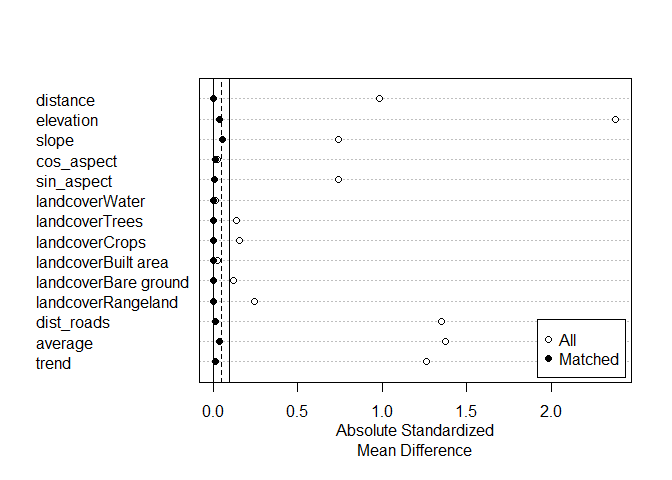
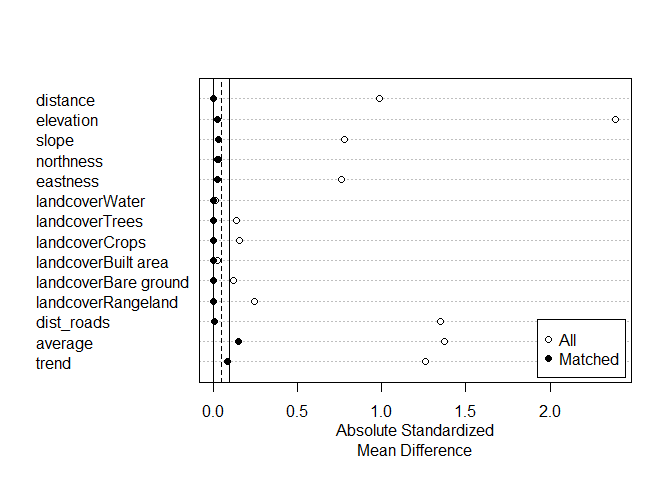
Update BACI_Baviaanskloof.md

diff --git a/tutorials/BACI_Baviaanskloof.md b/tutorials/BACI_Baviaanskloof.md
@@ -4,7 +4,8 @@ Jasper Van doninck, Trinidad del Río-Mena, Wieteke Willemen, Wietske
 Bijker
 
 - [1 The Baviaanskloof dataset](#1-the-baviaanskloof-dataset)
-- [2 Spatial reference and the candidate control pixels](#2-spatial-reference-and-the-candidate-control-pixels)
+- [2 Spatial reference and the candidate control
+  pixels](#2-spatial-reference-and-the-candidate-control-pixels)
 - [3 Evaluation metric](#3-evaluation-metric)
 - [4 Control-Impact Matching](#4-control-impact-matching)
 - [5 Before-After-Control-Impact
@@ -129,7 +130,7 @@ vi_before <- eo_VI_yearly.stac(refRas, "NDVI",
                                years=seq(year-10, year-1, 1),
                                months = 3:5,
                                maxCloud=60)
-vi_before <- gdalcube_as_terra(vi_before)
+vi_before <- as.SpatRaster(vi_before)
 ```
 
 ``` r
@@ -138,7 +139,7 @@ vi_after <- eo_VI_yearly.stac(refRas, "NDVI",
                               years=seq(year+1, year+10, 1),
                               months = 3:5,
                               maxCloud=60)
-vi_after <- gdalcube_as_terra(vi_after)
+vi_after <- as.SpatRaster(vi_after)
 ```
 
 In the above code, we specified that we want to make a pixel-based NDVI
@@ -157,9 +158,8 @@ data from cloud catalogs as data cubes. We hope to identify and fix
 these issues in an update of the `EnvImpactEval` package. For now we
 choose to transform the data cubes to SpatRaster object and plot the
 data at this step in the workflow, which will access the actual image
-data indicate whether errors / incompleteness are encountered. If so,
-these two steps can be re-run. Alternatively, these lines can be
-skipped, but potential warning or error messages could then occur later.
+data and indicate whether errors / incompleteness are encountered. If
+so, these previous two steps can be re-run.
 
 ``` r
 plot(vi_before, main=paste0("NDVI - ",seq(year-10, year-1, 1)))
@@ -210,7 +210,7 @@ aspect should be transformed to “northness” and “eastness” by applying
 the cosine and sine function on it (default) or not.
 
 ``` r
-dem <- nasadem(refRas)
+dem <- dem(refRas)
 ```
 
 We also included land cover as a matching covariate. This will ensure
@@ -243,6 +243,8 @@ analysis.
 roadsDist <- osm_distance_roads(refRas, values="track+")
 ```
 
+    ## |---------|---------|---------|---------|=========================================                                          
+
 In addition to parameters described above, we also included as matching
 covariates the average and trend of the selected vegetation index in the
 10-year period before the restoration intervention. This way, control
@@ -267,13 +269,12 @@ after which the matching can be accepted or rejected.
 matches <- matchCI(matchingCands, matchingLayers, eval=TRUE, ratio=10, replace=TRUE)
 ```
 
-    ## A matchit object
+    ## A `matchit` object
     ##  - method: 10:1 nearest neighbor matching with replacement
-    ##  - distance: Propensity score
-    ##              - estimated with logistic regression
-    ##  - number of obs.: 11782 (original), 1709 (matched)
+    ##  - distance: Propensity score             - estimated with logistic regression
+    ##  - number of obs.: 11782 (original), 1711 (matched)
     ##  - target estimand: ATT
-    ##  - covariates: elevation, slope, cos_aspect, sin_aspect, landcover, dist_roads, average, trend
+    ##  - covariates: elevation, slope, northness, eastness, landcover, dist_roads, average, trend
     ## Press <Enter> to continue.
     ## 
     ## Call:
@@ -281,11 +282,11 @@ matches <- matchCI(matchingCands, matchingLayers, eval=TRUE, ratio=10, replace=T
     ## 
     ## Summary of Balance for All Data:
     ##                      Means Treated Means Control Std. Mean Diff. Var. Ratio
-    ## distance                    0.0916        0.0184          0.9858     3.7093
-    ## elevation                 546.9688      701.6467         -2.3803     0.1123
-    ## slope                       9.5154       12.4234         -0.7395     0.2211
-    ## cos_aspect                  0.0530        0.0727         -0.0289     0.9508
-    ## sin_aspect                  0.5133        0.1259          0.7407     0.5564
+    ## distance                    0.0930        0.0184          0.9867     3.7898
+    ## elevation                 546.9395      701.6508         -2.3898     0.1115
+    ## slope                       0.1637        0.2153         -0.7789     0.2091
+    ## northness                   0.0563        0.0736         -0.0256     0.9388
+    ## eastness                    0.5233        0.1264          0.7629     0.5484
     ## landcoverWater              0.0000        0.0002         -0.0133          .
     ## landcoverTrees              0.0000        0.0179         -0.1365          .
     ## landcoverCrops              0.0000        0.0232         -0.1557          .
@@ -294,13 +295,13 @@ matches <- matchCI(matchingCands, matchingLayers, eval=TRUE, ratio=10, replace=T
     ## landcoverRangeland          1.0000        0.9443          0.2453          .
     ## dist_roads                526.1387      999.0099         -1.3502     0.1085
     ## average                     0.1240        0.1388         -1.3754     0.0985
-    ## trend                       0.0017        0.0006          1.2628     0.1495
+    ## trend                       0.0000        0.0000          1.2626     0.1495
     ##                      eCDF Mean eCDF Max
-    ## distance                0.3843   0.5975
-    ## elevation               0.2394   0.5518
-    ## slope                   0.1271   0.2609
-    ## cos_aspect              0.0354   0.0911
-    ## sin_aspect              0.1565   0.2748
+    ## distance                0.3854   0.6120
+    ## elevation               0.2395   0.5523
+    ## slope                   0.1301   0.2774
+    ## northness               0.0366   0.0884
+    ## eastness                0.1608   0.2797
     ## landcoverWater          0.0002   0.0002
     ## landcoverTrees          0.0179   0.0179
     ## landcoverCrops          0.0232   0.0232
@@ -309,46 +310,46 @@ matches <- matchCI(matchingCands, matchingLayers, eval=TRUE, ratio=10, replace=T
     ## landcoverRangeland      0.0557   0.0557
     ## dist_roads              0.0882   0.2645
     ## average                 0.1624   0.3548
-    ## trend                   0.2044   0.3693
+    ## trend                   0.2043   0.3691
     ## 
     ## Summary of Balance for Matched Data:
     ##                      Means Treated Means Control Std. Mean Diff. Var. Ratio
-    ## distance                    0.0916        0.0916          0.0003     1.0022
-    ## elevation                 546.9688      544.5570          0.0371     0.2697
-    ## slope                       9.5154        9.7453         -0.0585     0.1762
-    ## cos_aspect                  0.0530        0.0431          0.0146     1.0701
-    ## sin_aspect                  0.5133        0.5095          0.0074     0.8928
+    ## distance                    0.0930        0.0929          0.0012     1.0070
+    ## elevation                 546.9395      545.3125          0.0251     0.2409
+    ## slope                       0.1637        0.1614          0.0340     0.1799
+    ## northness                   0.0563        0.0799         -0.0350     1.0548
+    ## eastness                    0.5233        0.5371         -0.0265     0.9875
     ## landcoverWater              0.0000        0.0000          0.0000          .
     ## landcoverTrees              0.0000        0.0000          0.0000          .
     ## landcoverCrops              0.0000        0.0000          0.0000          .
     ## landcoverBuilt area         0.0000        0.0000          0.0000          .
     ## landcoverBare ground        0.0000        0.0000          0.0000          .
     ## landcoverRangeland          1.0000        1.0000          0.0000          .
-    ## dist_roads                526.1387      520.3636          0.0165     0.3322
-    ## average                     0.1240        0.1244         -0.0388     0.1672
-    ## trend                       0.0017        0.0017          0.0155     0.3223
+    ## dist_roads                526.1387      523.2731          0.0082     0.2928
+    ## average                     0.1240        0.1256         -0.1515     0.1680
+    ## trend                       0.0000        0.0000         -0.0855     0.3253
     ##                      eCDF Mean eCDF Max Std. Pair Dist.
-    ## distance                0.0002   0.0132          0.0108
-    ## elevation               0.0855   0.2474          1.3264
-    ## slope                   0.1495   0.3269          2.0484
-    ## cos_aspect              0.0422   0.0983          1.1639
-    ## sin_aspect              0.0200   0.0615          0.9121
+    ## distance                0.0002   0.0115          0.0105
+    ## elevation               0.0944   0.2632          1.4032
+    ## slope                   0.1489   0.3359          2.0251
+    ## northness               0.0430   0.0962          1.1732
+    ## eastness                0.0192   0.0624          0.9040
     ## landcoverWater          0.0000   0.0000          0.0000
     ## landcoverTrees          0.0000   0.0000          0.0000
     ## landcoverCrops          0.0000   0.0000          0.0000
     ## landcoverBuilt area     0.0000   0.0000          0.0000
     ## landcoverBare ground    0.0000   0.0000          0.0000
     ## landcoverRangeland      0.0000   0.0000          0.0000
-    ## dist_roads              0.0754   0.2047          1.3647
-    ## average                 0.1091   0.2308          2.0239
-    ## trend                   0.0758   0.1440          1.5417
+    ## dist_roads              0.0816   0.2141          1.4075
+    ## average                 0.1094   0.2466          2.0022
+    ## trend                   0.0716   0.1509          1.5410
     ## 
     ## Sample Sizes:
     ##                Control Treated
     ## All           11548.       234
-    ## Matched (ESS)   981.99     234
-    ## Matched        1475.       234
-    ## Unmatched     10073.         0
+    ## Matched (ESS)   961.98     234
+    ## Matched        1477.       234
+    ## Unmatched     10071.         0
     ## Discarded         0.         0
     ## 
     ## Press <Enter> to continue.
@@ -390,19 +391,19 @@ baci_results$data
 ```
 
     ## Key: <subclass>
-    ##      subclass       x        y     contrast      p_value
-    ##        <fctr>   <num>    <num>        <num>        <num>
-    ##   1:        1 2473220 -3922900  0.011264212 9.744361e-02
-    ##   2:        2 2473340 -3922900 -0.005690035 1.618870e-01
-    ##   3:        3 2473100 -3923020  0.005185367 1.441457e-01
-    ##   4:        4 2473220 -3923020  0.005456525 4.067758e-01
-    ##   5:        5 2473340 -3923020  0.013802957 5.012782e-02
-    ##  ---                                                    
-    ## 230:      230 2474420 -3925300 -0.014392357 2.383635e-06
-    ## 231:      231 2474180 -3925420 -0.007194363 1.414131e-03
-    ## 232:      232 2474300 -3925420 -0.011781652 2.253605e-07
-    ## 233:      233 2474180 -3925540 -0.010660805 2.621487e-03
-    ## 234:      234 2474180 -3925660 -0.010758167 4.584164e-02
+    ##      subclass       x        y      contrast      p_value
+    ##        <fctr>   <num>    <num>         <num>        <num>
+    ##   1:        1 2473220 -3922900  0.0037478785 2.752083e-01
+    ##   2:        2 2473340 -3922900 -0.0025130055 2.752068e-01
+    ##   3:        3 2473100 -3923020  0.0082877362 2.868638e-02
+    ##   4:        4 2473220 -3923020  0.0029630961 4.190995e-01
+    ##   5:        5 2473340 -3923020  0.0008993401 7.587022e-01
+    ##  ---                                                     
+    ## 230:      230 2474420 -3925300 -0.0127505002 1.241851e-03
+    ## 231:      231 2474180 -3925420  0.0005551150 8.230524e-01
+    ## 232:      232 2474300 -3925420 -0.0089247435 2.323604e-06
+    ## 233:      233 2474180 -3925540 -0.0066545618 5.353127e-02
+    ## 234:      234 2474180 -3925660 -0.0065308489 6.425568e-02
 
 The BACI results can also be plotted on a map, here with non-significant
 BACI contrast masked out. If desired, the pixel-based results can now be
